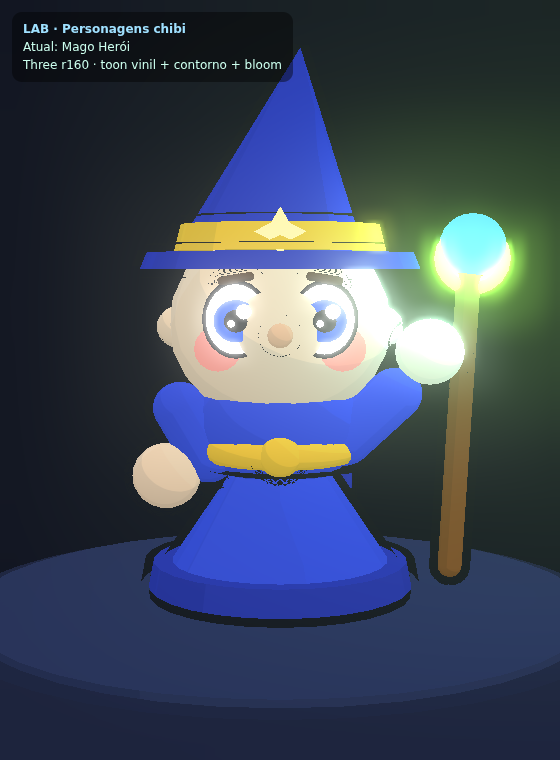
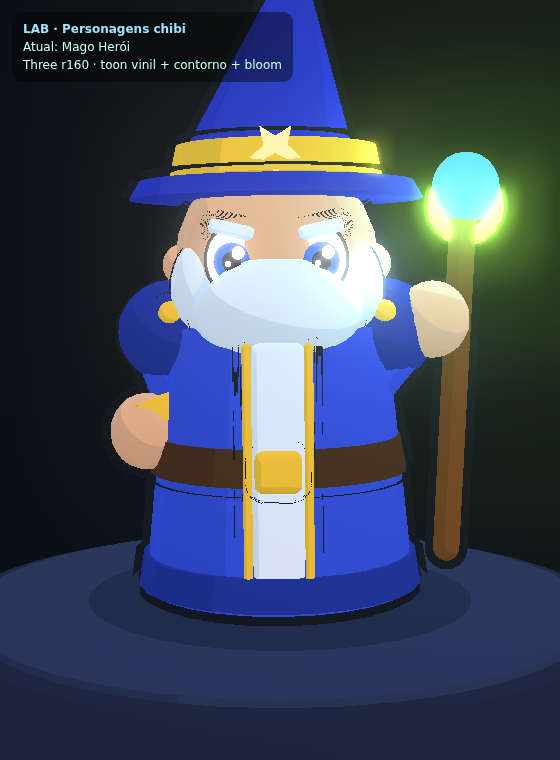
refactor(lab): reformula o Mago Herói — heróico (barba, ombros largos)
Feedback: estava "bobinho" e com silhueta feminina (robe afunilado = vestido
com cintura). Reformulado p/ mago heróico estilo vitrine:
- ombros largos + ombreiras com rebites; robe reto (cilindro) com painel central
  + trim dourado; cinto largo sem cintura de ampulheta → silhueta masculina;
- BARBA + bigode + sobrancelhas grossas anguladas + pele bronzeada, sem blush
  → tira a "cara de bebê";
- iluminação com mais contraste (fundo mais escuro, key mais forte, fill baixo)
  + sombra de contato; bloom controlado (não lava mais o rosto).

Verificado headless: ready, webgl2, ERROS=[]. Não toca bastion-rush/index.html.

https://claude.ai/code/session_01FsKks2LfpRXbTiAL1QZHxj

diff --git a/lab/hero.js b/lab/hero.js
@@ -1,124 +1,141 @@
-// hero.js — MAGO HERÓI chibi (centro do menu, estilo vitrine mobile).
-// Original. Construído com o toolkit chibi.js (cabeçudo, bevels, toon vinil,
-// olhos 2D, contorno marcado, orbe brilhante p/ bloom).
+// hero.js — MAGO HERÓI chibi heróico (estilo vitrine mobile / Clash-like).
+// Original. Reformulado: ombros largos + robe reto (silhueta masculina), BARBA
+// de mago (tira a cara de bebê), expressão confiante. Toolkit em chibi.js.
 //
 // buildHeroMage(opts) → { model: THREE.Group, orb, lights } pronto p/ Rig.
 
 import {
   THREE, vinyl, glow, rbox, ball, blob, cone, capsule, glove,
-  eye, blush, outlineAll,
+  eye, outlineAll,
 } from './chibi.js';
 
 export function buildHeroMage(opts = {}) {
-  const ROBE = opts.robe ?? 0x3a52d6;   // azul-violeta saturado
-  const ROBE2 = opts.robe2 ?? 0x2b3aa8;  // sombra do robe
-  const SKIN = opts.skin ?? 0xffd9b0;
+  const ROBE = opts.robe ?? 0x3550d8;   // azul saturado
+  const ROBE2 = opts.robe2 ?? 0x223499;  // sombra/forro
+  const SKIN = opts.skin ?? 0xf1b48a;   // pele mais bronzeada (menos "bebê")
   const GOLD = 0xffc73a;
-  const HATC = opts.hat ?? 0x2c3bb0;
+  const HATC = opts.hat ?? 0x2a37b8;
   const ORBC = opts.orb ?? 0x5fe0ff;
+  const HAIR = opts.hair ?? 0xe9edf4;   // barba/cabelo grisalho
 
   const model = new THREE.Group();
-  const HEADR = 0.62;
-  const HEADY = 1.78;
+  const HEADR = 0.6;
+  const HEADY = 1.96;
 
-  // ── botas (cotocos arredondados sob o robe) ──
+  // ── botas (só as pontas pra fora do robe) ──
   for (const sx of [-1, 1]) {
-    const boot = rbox(0.34, 0.26, 0.46, 0x6b4a86, 0.12);
-    boot.position.set(sx * 0.26, 0.16, 0.06);
-    model.add(boot);
+    const boot = rbox(0.36, 0.22, 0.5, 0x5a3f74, 0.1);
+    boot.position.set(sx * 0.3, 0.13, 0.12); model.add(boot);
   }
 
-  // ── robe (saia cônica larga = silhueta forte de "triângulo") ──
-  const skirt = cone(0.74, 1.15, ROBE, 28);
-  skirt.position.y = 0.74;
-  model.add(skirt);
-  // barra inferior do robe (faixa mais escura)
-  const hem = new THREE.Mesh(new THREE.CylinderGeometry(0.75, 0.78, 0.16, 28), vinyl(ROBE2));
-  hem.position.y = 0.24; model.add(hem);
+  // ── ROBE reto (cilindro com leve taper, NÃO um vestido afunilado) ──
+  const robe = new THREE.Mesh(new THREE.CylinderGeometry(0.66, 0.82, 1.5, 28), vinyl(ROBE));
+  robe.position.y = 0.84; model.add(robe);
+  // barra inferior
+  const hem = new THREE.Mesh(new THREE.CylinderGeometry(0.83, 0.86, 0.18, 28), vinyl(ROBE2));
+  hem.position.y = 0.2; model.add(hem);
+  // painel central da frente (faixa clara com trim dourado)
+  const panel = rbox(0.3, 1.35, 0.12, 0xeef2ff, 0.05);
+  panel.position.set(0, 0.85, 0.74); model.add(panel);
+  for (const sx of [-1, 1]) {
+    const trim = rbox(0.05, 1.35, 0.1, GOLD, 0.02);
+    trim.position.set(sx * 0.17, 0.85, 0.76); model.add(trim);
+  }
 
-  // ── torso curto + cinto dourado (sem pescoço) ──
-  const torso = blob(0.5, 0.42, 0.45, ROBE);
-  torso.position.y = 1.18; model.add(torso);
-  const belt = new THREE.Mesh(new THREE.TorusGeometry(0.4, 0.085, 12, 28), vinyl(GOLD));
-  belt.rotation.x = Math.PI / 2; belt.position.y = 1.02; model.add(belt);
-  const buckle = ball(0.12, GOLD); buckle.position.set(0, 1.02, 0.42); model.add(buckle);
+  // ── OMBROS largos (silhueta masculina) + ombreiras arredondadas ──
+  const shoulders = rbox(1.3, 0.46, 0.66, ROBE, 0.22);
+  shoulders.position.y = 1.5; model.add(shoulders);
+  for (const sx of [-1, 1]) {
+    const pad = blob(0.34, 0.3, 0.36, ROBE2); pad.position.set(sx * 0.62, 1.56, 0.02);
+    model.add(pad);
+    const rivet = ball(0.08, GOLD); rivet.position.set(sx * 0.62, 1.66, 0.3); model.add(rivet);
+  }
+  // gola
+  const collar = new THREE.Mesh(new THREE.CylinderGeometry(0.34, 0.42, 0.2, 20), vinyl(ROBE2));
+  collar.position.y = 1.74; model.add(collar);
 
-  // ── capa atrás (placa curva) ──
-  const cape = rbox(0.9, 1.2, 0.16, ROBE2, 0.3);
-  cape.position.set(0, 1.0, -0.42); cape.rotation.x = 0.12; model.add(cape);
+  // ── cinto largo + fivela (mais baixo, sem cintura de ampulheta) ──
+  const belt = new THREE.Mesh(new THREE.CylinderGeometry(0.74, 0.78, 0.2, 28), vinyl(0x4a2f1c));
+  belt.position.y = 0.86; model.add(belt);
+  const buckle = rbox(0.26, 0.22, 0.12, GOLD, 0.05); buckle.position.set(0, 0.86, 0.84); model.add(buckle);
 
-  // ── braços curtos (cápsulas) + mãos-luva ──
-  // braço esquerdo (do personagem) repousado
-  const armL = capsule(0.16, 0.34, ROBE); armL.position.set(-0.5, 1.12, 0.08);
-  armL.rotation.z = 0.5; model.add(armL);
-  const handL = glove(0.2, SKIN); handL.position.set(-0.66, 0.86, 0.12); model.add(handL);
-  // braço direito segurando o cajado, levantado
-  const armR = capsule(0.16, 0.4, ROBE); armR.position.set(0.52, 1.22, 0.12);
-  armR.rotation.z = -0.8; model.add(armR);
-  const handR = glove(0.2, SKIN); handR.position.set(0.86, 1.62, 0.16); model.add(handR);
+  // ── capa atrás ──
+  const cape = rbox(1.0, 1.4, 0.16, ROBE2, 0.3);
+  cape.position.set(0, 1.2, -0.46); cape.rotation.x = 0.1; model.add(cape);
 
-  // ── CABEÇA enorme (≈45% da altura) ──
+  // ── braços curtos + punhos (luva) ──
+  const armL = capsule(0.17, 0.34, ROBE); armL.position.set(-0.62, 1.28, 0.06);
+  armL.rotation.z = 0.35; model.add(armL);
+  const fistL = glove(0.22, SKIN); fistL.position.set(-0.78, 1.0, 0.16); model.add(fistL);
+  const cuffL = new THREE.Mesh(new THREE.CylinderGeometry(0.2, 0.22, 0.14, 16), vinyl(GOLD));
+  cuffL.position.set(-0.74, 1.12, 0.12); cuffL.rotation.z = 0.35; model.add(cuffL);
+
+  const armR = capsule(0.17, 0.4, ROBE); armR.position.set(0.6, 1.34, 0.1);
+  armR.rotation.z = -0.7; model.add(armR);
+  const fistR = glove(0.22, SKIN); fistR.position.set(0.92, 1.62, 0.14); model.add(fistR);
+
+  // ── CABEÇA (chibi, mas pele bronzeada + sem blush = menos bebê) ──
   const head = ball(HEADR, SKIN);
-  head.position.y = HEADY; head.scale.set(1.05, 1, 0.98); model.add(head);
-
-  // orelhas pequenas
+  head.position.y = HEADY; head.scale.set(1.02, 1, 0.98); model.add(head);
   for (const sx of [-1, 1]) {
-    const ear = ball(0.13, SKIN); ear.position.set(sx * HEADR * 0.96, HEADY - 0.02, -0.02);
-    model.add(ear);
+    const ear = ball(0.12, SKIN); ear.position.set(sx * HEADR * 0.95, HEADY - 0.02, -0.02); model.add(ear);
   }
 
-  // olhos 2D grandes (na frente da cabeça)
+  // sobrancelhas grossas e anguladas (confiança/seriedade)
   for (const sx of [-1, 1]) {
-    const e = eye(0.2, 0x2b6cff, 'normal');
-    e.position.set(sx * 0.24, HEADY + 0.05, HEADR * 0.9);
-    e.userData.noOutline = true;
-    model.add(e);
+    const brow = rbox(0.26, 0.08, 0.06, HAIR, 0.03);
+    brow.position.set(sx * 0.25, HEADY + 0.16, HEADR * 0.9);
+    brow.rotation.z = sx * 0.22; model.add(brow);
   }
-  // sobrancelhas (faixas curtas) p/ personalidade confiante
+  // olhos (um pouco menores e firmes)
   for (const sx of [-1, 1]) {
-    const brow = rbox(0.2, 0.05, 0.05, 0x6b4a2e, 0.02);
-    brow.position.set(sx * 0.24, HEADY + 0.28, HEADR * 0.88);
-    brow.rotation.z = sx * -0.18; model.add(brow);
+    const e = eye(0.17, 0x2f74ff, 'normal');
+    e.position.set(sx * 0.25, HEADY + 0.0, HEADR * 0.92);
+    e.userData.noOutline = true; model.add(e);
   }
-  // nariz botãozinho + bochechas rosadas
-  const nose = ball(0.07, 0xf6b98a); nose.position.set(0, HEADY - 0.04, HEADR * 0.98); model.add(nose);
+  // nariz forte
+  const nose = blob(0.09, 0.1, 0.12, 0xe7a074); nose.position.set(0, HEADY - 0.16, HEADR * 0.98); model.add(nose);
+
+  // ── BIGODE + BARBA de mago (tira a cara de bebê e o ar feminino) ──
+  // bigode (dois blobs)
   for (const sx of [-1, 1]) {
-    const b = blush(0.13); b.position.set(sx * 0.34, HEADY - 0.12, HEADR * 0.86); model.add(b);
+    const m = blob(0.16, 0.1, 0.12, HAIR); m.position.set(sx * 0.12, HEADY - 0.26, HEADR * 0.86);
+    m.rotation.z = sx * 0.4; model.add(m);
+  }
+  // barba: bloco principal afunilando pra baixo + pontas
+  const beard = cone(0.56, 0.95, HAIR, 22);
+  beard.position.set(0, HEADY - 0.62, HEADR * 0.5); beard.scale.set(1.05, 1, 0.7);
+  model.add(beard);
+  const beardBase = blob(0.5, 0.34, 0.4, HAIR); beardBase.position.set(0, HEADY - 0.28, HEADR * 0.62); model.add(beardBase);
+  // costeletas ligando barba às orelhas
+  for (const sx of [-1, 1]) {
+    const s = blob(0.16, 0.26, 0.2, HAIR); s.position.set(sx * 0.46, HEADY - 0.16, HEADR * 0.42); model.add(s);
   }
 
-  // ── CHAPÉU de mago pontudo (cone alto) com aba + emblema ──
-  const brim = new THREE.Mesh(new THREE.CylinderGeometry(0.78, 0.82, 0.1, 28), vinyl(HATC));
-  brim.position.y = HEADY + HEADR * 0.62; model.add(brim);
-  const hat = cone(0.56, 1.25, HATC, 28);
-  hat.position.set(0.04, HEADY + HEADR * 0.62 + 0.66, -0.02);
-  hat.rotation.z = -0.12; hat.rotation.x = 0.05;
-  // ponta tomba um pouquinho (charme)
-  model.add(hat);
-  const hatBand = new THREE.Mesh(new THREE.CylinderGeometry(0.58, 0.62, 0.16, 28), vinyl(GOLD));
-  hatBand.position.y = HEADY + HEADR * 0.62 + 0.14; model.add(hatBand);
-  // estrela-emblema (4 pontas, original) na frente da aba
-  const star = new THREE.Mesh(starGeo(0.14, 0.07, 4), glow(0xfff3b0));
-  star.position.set(0, HEADY + HEADR * 0.62 + 0.16, 0.6);
-  star.userData.noOutline = true; model.add(star);
+  // ── CHAPÉU pontudo (aba + banda dourada + estrela) ──
+  const brim = new THREE.Mesh(new THREE.CylinderGeometry(0.82, 0.88, 0.1, 28), vinyl(HATC));
+  brim.position.y = HEADY + HEADR * 0.66; model.add(brim);
+  const hat = cone(0.58, 1.35, HATC, 28);
+  hat.position.set(0.05, HEADY + HEADR * 0.66 + 0.72, -0.02);
+  hat.rotation.z = -0.13; hat.rotation.x = 0.04; model.add(hat);
+  const hatBand = new THREE.Mesh(new THREE.CylinderGeometry(0.6, 0.64, 0.18, 28), vinyl(GOLD));
+  hatBand.position.y = HEADY + HEADR * 0.66 + 0.16; model.add(hatBand);
+  const star = new THREE.Mesh(starGeo(0.15, 0.07, 5), glow(0xfff3b0));
+  star.position.set(0, HEADY + HEADR * 0.66 + 0.18, 0.62); star.userData.noOutline = true; model.add(star);
 
-  // ── CAJADO + ORBE brilhante (alimenta o bloom) ──
-  const staff = capsule(0.07, 1.95, 0x8a5a2b);
-  staff.position.set(1.04, 1.28, 0.14); staff.rotation.z = -0.05; model.add(staff);
-  const holder = new THREE.Mesh(new THREE.TorusGeometry(0.17, 0.05, 10, 18), vinyl(GOLD));
-  holder.position.set(1.1, 2.18, 0.14); model.add(holder);
-  const orb = new THREE.Mesh(new THREE.IcosahedronGeometry(0.19, 3), glow(ORBC));
-  orb.position.set(1.1, 2.26, 0.14); orb.userData.noOutline = true;
-  orb.userData.orb = true; model.add(orb);
-  const orbLight = new THREE.PointLight(ORBC, 2.2, 4.5, 2);
-  orbLight.position.copy(orb.position); model.add(orbLight);
+  // ── CAJADO + ORBE (longe do rosto, à direita) ──
+  const staff = capsule(0.08, 2.0, 0x7a4a22);
+  staff.position.set(1.06, 1.3, 0.1); staff.rotation.z = -0.05; model.add(staff);
+  const holder = new THREE.Mesh(new THREE.TorusGeometry(0.18, 0.05, 10, 18), vinyl(GOLD));
+  holder.position.set(1.12, 2.26, 0.1); model.add(holder);
+  const orb = new THREE.Mesh(new THREE.IcosahedronGeometry(0.2, 3), glow(ORBC));
+  orb.position.set(1.12, 2.36, 0.1); orb.userData.noOutline = true; orb.userData.orb = true; model.add(orb);
+  const orbLight = new THREE.PointLight(ORBC, 2.0, 4.2, 2); orbLight.position.copy(orb.position); model.add(orbLight);
 
-  // contorno marcado em tudo que é "corpo"
   outlineAll(model, 0.05);
-
   return { model, orb, lights: [orbLight] };
 }
 
-// estrela de N pontas (geometria de shape própria)
 function starGeo(outer, inner, points) {
   const s = new THREE.Shape();
   for (let i = 0; i < points * 2; i++) {

diff --git a/lab/characters.html b/lab/characters.html
@@ -52,17 +52,23 @@ renderer.outputColorSpace = THREE.SRGBColorSpace;
 renderer.toneMapping = THREE.NoToneMapping; // cores saturadas "mobile"
 
 const scene = new THREE.Scene();
-scene.background = new THREE.Color(0x0e1220);
+scene.background = new THREE.Color(0x090b13);
 
 const camera = new THREE.PerspectiveCamera(34, 1, 0.1, 100);
 function frameCam(){ camera.position.set(0, 2.0, 7.4); camera.lookAt(0, 1.35, 0); }
 frameCam();
 
 // luz: HEMISFÉRICA (céu claro em cima / chão escuro embaixo) = gradiente top-down
-scene.add(new THREE.HemisphereLight(0xdfe9ff, 0x202a40, 0.85));
-const key = new THREE.DirectionalLight(0xfff2dc, 1.2); key.position.set(3.5,6,5); scene.add(key);
-const rim = new THREE.DirectionalLight(0x6fb0ff, 0.7); rim.position.set(-4,3,-4); scene.add(rim);
-const fillF = new THREE.DirectionalLight(0xffffff, 0.5); fillF.position.set(0,2,8); scene.add(fillF);
+scene.add(new THREE.HemisphereLight(0xcfe0ff, 0x171f33, 0.6));
+const key = new THREE.DirectionalLight(0xfff2dc, 1.7); key.position.set(3.5,6.5,4.5); scene.add(key);
+const rim = new THREE.DirectionalLight(0x6fb0ff, 0.85); rim.position.set(-4.5,3,-3.5); scene.add(rim);
+const fillF = new THREE.DirectionalLight(0xffffff, 0.32); fillF.position.set(0,2,8); scene.add(fillF);
+
+// sombra de contato (disco escuro achatado sob os pés) → "pé no chão"
+const shadow = new THREE.Mesh(
+  new THREE.CircleGeometry(1.15, 32),
+  new THREE.MeshBasicMaterial({ color:0x000000, transparent:true, opacity:0.34 }));
+shadow.rotation.x = -Math.PI/2; shadow.position.y = 0.05; scene.add(shadow);
 
 // pódio (palco do personagem, estilo vitrine)
 const podium = new THREE.Mesh(
